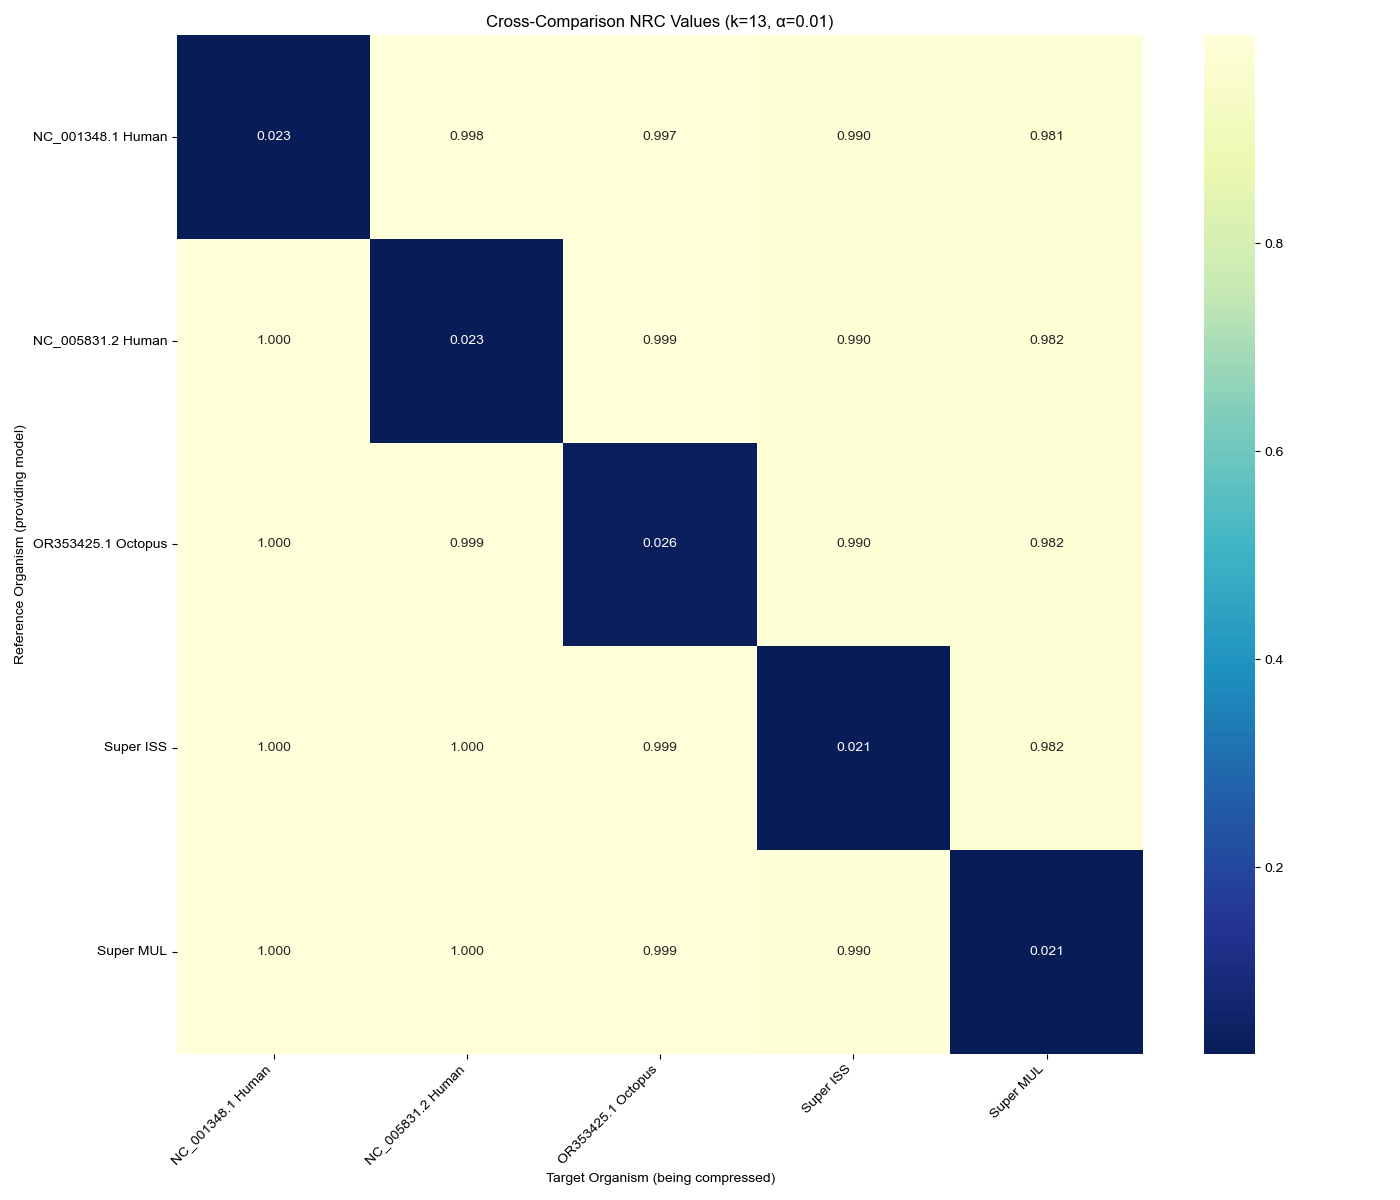
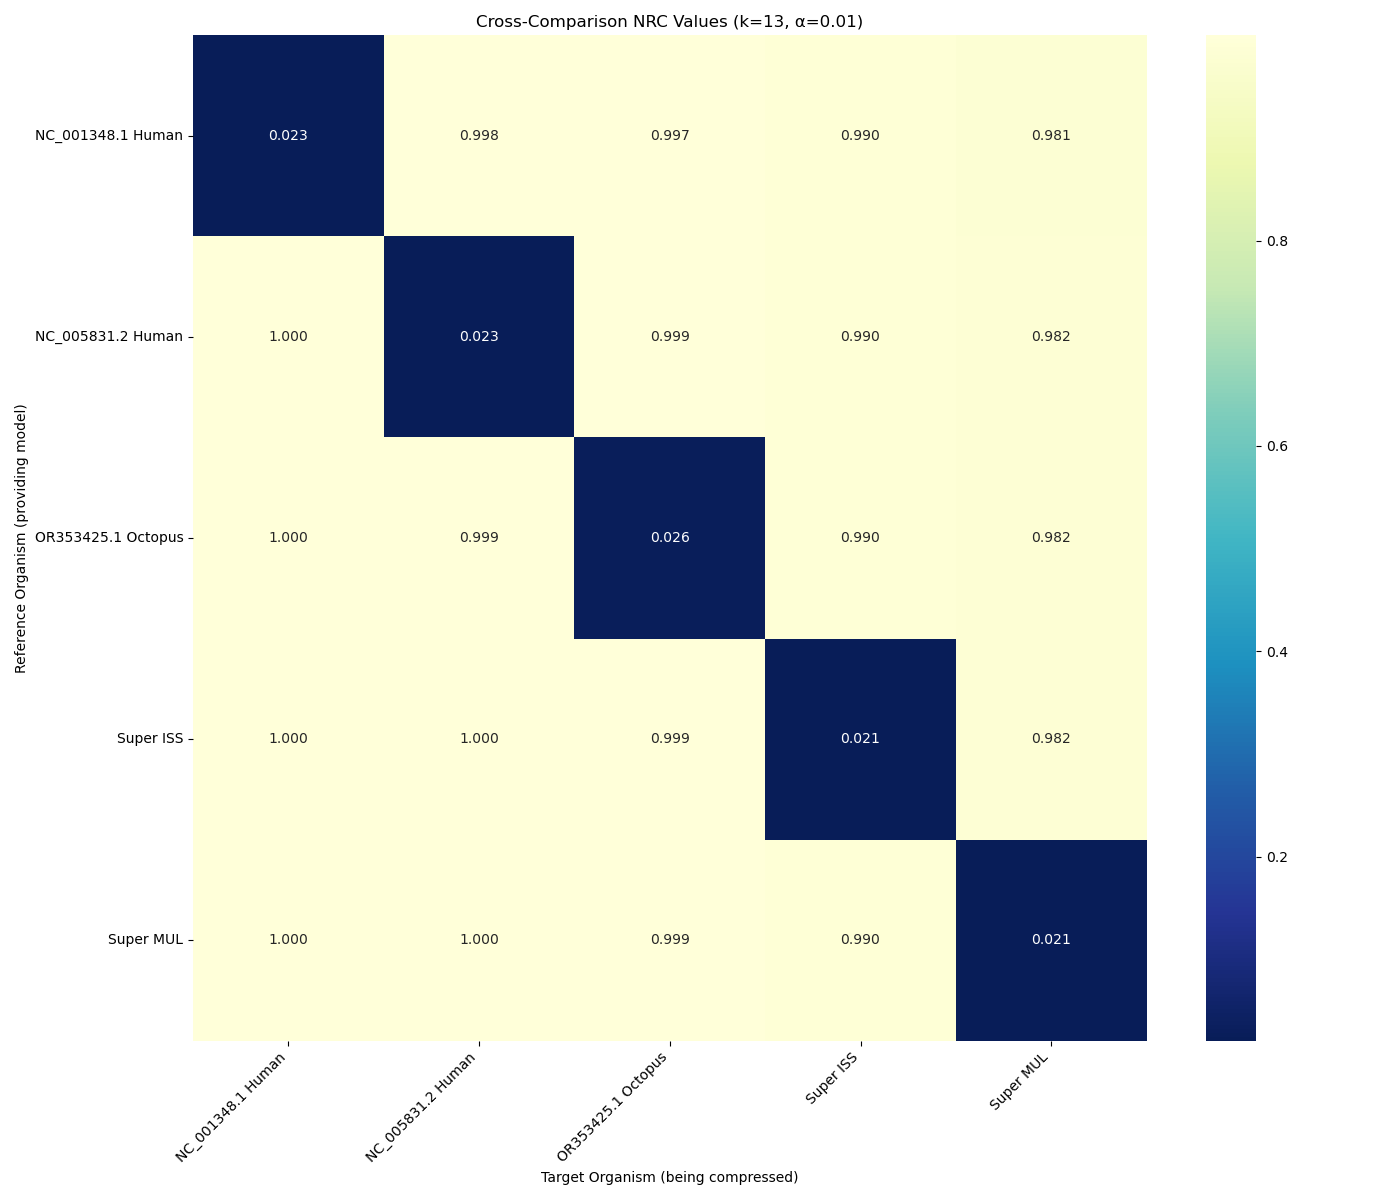
feat: removed unnecessary graphs and warnings

diff --git a/visualization/plot_organism_info.py b/visualization/plot_organism_info.py
@@ -35,37 +35,10 @@ def plot_info_profile(organisms_data, output_dir):
         # Combine according to minimum value
         combined_info = np.minimum(filtered_info, filtered_reversed)
         
-        # Create plots
-        plt.figure(figsize=(15, 10))
+        # Clean up the organism name, by removing the last character
+        organism = organism[:-1]
         
-        # Original data
-        plt.subplot(3, 1, 1)
-        plt.plot(positions, information, linestyle='-', color='green')
-        plt.title(f'Original Information Profile for {organism}')
-        plt.ylabel('Information')
-        plt.grid(True, linestyle='--', alpha=0.7)
-        
-        # Filtered data
-        plt.subplot(3, 1, 2)
-        plt.plot(positions, filtered_info, linestyle='-', color='blue')
-        plt.title('Low-pass Filtered with Blackman Window (size 21)')
-        plt.ylabel('Information')
-        plt.grid(True, linestyle='--', alpha=0.7)
-        
-        # Combined minimum from both directions
-        plt.subplot(3, 1, 3)
-        plt.plot(positions, combined_info, linestyle='-', color='black')
-        plt.title('Combined Minimum from Both Directions')
-        plt.xlabel('Position')
-        plt.ylabel('Information')
-        plt.grid(True, linestyle='--', alpha=0.7)
-        
-        plt.xticks(rotation=45)
-        plt.tight_layout()
-        plt.savefig(os.path.join(output_dir, f'info_profile_{organism}.png'))
-        plt.close()
-        
-        # Also save a version with just the final processed data for cleaner visualization
+        # Create plot with just the final processed data
         plt.figure(figsize=(12, 6))
         plt.plot(positions, combined_info, linestyle='-', color='black')
         plt.title(f'Processed Information Profile for {organism}')

diff --git a/visualization/visualize_results.py b/visualization/visualize_results.py
@@ -1,8 +1,6 @@
 import os
 import argparse
 import shutil
-import json
-from collections import Counter
 
 # Import our modules
 from data_handler import (
@@ -21,8 +19,8 @@ from plot_chunk_analysis import plot_chunk_analysis
 def main():
     # Set up command line argument parsing
     parser = argparse.ArgumentParser(description='Visualize NRC results from JSON data.')
-    parser.add_argument('--input', '-i', type=str, default='../results/latest',
-                        help='Path to the test results folder (default: results/latest)')
+    parser.add_argument('--input', '-i', type=str, default='..\\results\\latest',
+                        help='Path to the test results folder (default: ..\\results\\latest)')
     parser.add_argument('--output', '-o', type=str, default='visualization_results',
                         help='Base directory for visualization results (default: visualization_results)')
     args = parser.parse_args()
@@ -99,7 +97,7 @@ def main():
         # Generate summary statistics
         stats = generate_summary_statistics(df, top_organisms_results_filepath, timestamp, output_dir)
     
-    print("=== SUMMARY STATISTICS ===")
+    print("\n=== SUMMARY STATISTICS ===")
     print(f"Most frequent top-ranking organism: {stats['top_organism']}")
     print(f"Best NRC value: {stats['best_nrc']:.6f}")
     print(f"Best parameters: k={stats['best_k']}, alpha={stats['best_alpha']}")

diff --git a/visualization/plot_chunk_analysis.py b/visualization/plot_chunk_analysis.py
@@ -1,6 +1,5 @@
 import json
 import matplotlib.pyplot as plt
-import numpy as np
 from matplotlib.patches import Rectangle
 import os
 
@@ -10,9 +9,6 @@ def plot_chunk_analysis(chunk_file, output_dir):
     from chunk analysis data.
     """
     print(f"Creating chunk analysis visualization...")
-    
-    # Set a reliable font family
-    plt.rcParams['font.family'] = 'Arial'
     
     # Load chunk analysis data
     with open(chunk_file, 'r') as f:
@@ -164,6 +160,7 @@ def prepare_compressed_labels(organisms):
     """Compress long organism names for readability"""
     compressed_labels = []
     for org in organisms:
+        org = org[:-1]
         if len(org) > 50:
             parts = org.split(' ')
             if len(parts) > 2:

diff --git a/visualization/data_handler.py b/visualization/data_handler.py
@@ -29,7 +29,6 @@ def load_organism_symbols(filepath):
                     
                     # Store dataframe in dictionary with organism name as key
                     organism_data[organism_name] = organism_df
-                    print(f"Loaded symbol data for {organism_name}")
                 except Exception as e:
                     print(f"Error loading {filename}: {e}")
     else:
